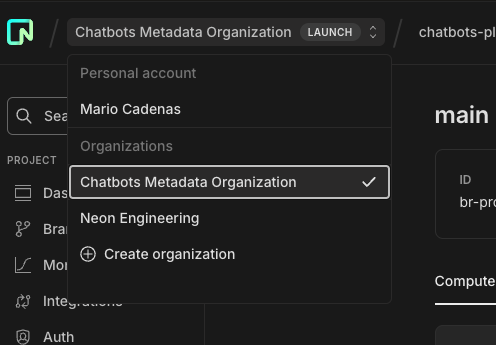
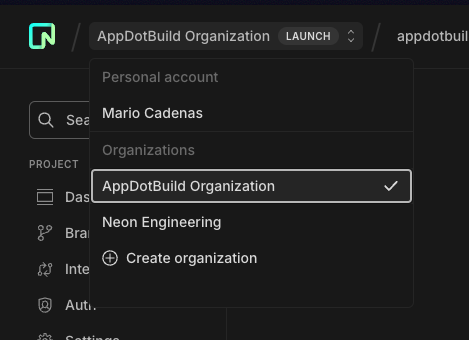
chore: fixup

diff --git a/README.md b/README.md
@@ -1,101 +1,7 @@
-# Requirements
+# AppDotBuild
 
-This project needs some dependencies in order to run, make sure to have them all installed.
+CLI with AI capabilities to create full-stack applications
 
-### npm
+## Contributing
 
-Make sure to have node installed using [nvm](https://github.com/nvm-sh/nvm)
-
-### pnpm
-
-Run the following command
-
-```bash
-npm install --global corepack@latest
-corepack enable pnpm
-```
-
-### bun
-
-If you are using homebrew, you can directly run
-
-```bash
-brew install oven-sh/bun/bun
-```
-
-if not, you can find the instructions for your case [here](https://bun.sh/docs/installation#macos-and-linux).
-
-### flyctl
-
-Run
-
-```bash
-brew install flyctl
-```
-
-or 
-
-```bash
-curl -L https://fly.io/install.sh | sh
-```
-
-Docs [here](https://fly.io/docs/flyctl/install/)
-
-## 1Password CLI
-
-Run
-
-```bash
-brew install 1password-cli
-```
-
-Docs [here](https://developer.1password.com/docs/cli/get-started)
-
-
-## Setting up the project
-
-First of all, go to [Neon console](https://console.neon.tech/app/projects/damp-surf-76179452/branches/br-proud-wave-a84j8pq6?branchId=br-proud-wave-a84j8pq6&database=neondb) into the Chatbots metadata Organization
-
-![Organization Picker](docs/images/organization-picker.png)
-
-If you don't have access, please ask a member of the team to invite you, and wait until you have access to continue this instructions.
-
-Now go into branches, and create a branch with the following structure `dev-<yourname>`
-
-![Branch creation](docs/images/branch-creation.png)
-
-Now go into your branch, and click on `Connect`, copy your connection string, and execute the following command
-
-```bash
-op item create --category "API Credential" --vault "App.build" --title "DATABASE_URL_$(echo "$USER" | tr '[:lower:]' '[:upper:]')" 'credential=<connection-string>' 'expires=2099-12-31'
-```
-
-Now you can run the following command to setup your environment
-
-```bash
-bun setup
-```
-
-## Starting the project
-
-Now you will need to run 2 different terminals, one with all the necessary servers, and the other one with the CLI.
-
-In the first terminal run 
-
-```bash
-bun dev
-```
-
-In the second terminal, you can choose to run the CLI in two ways:
-
-- Compiled version: This has a process in the background that is recompiling it everytime you make a change. But you will need to run the command again after doing changes.
-
-```bash
-bun cli
-```
-
-- Watched version: This allows you to directly see the changes you are applying (is not HMR for now).
-
-```bash
-bun cli:watch
-```
+[Contributing](./CONTRIBUTING.md)

diff --git a/CONTRIBUTING.md b/CONTRIBUTING.md
@@ -1,0 +1,100 @@
+# Requirements
+
+This project needs some dependencies in order to run, make sure to have them all installed.
+
+### npm
+
+Make sure to have node installed using [nvm](https://github.com/nvm-sh/nvm)
+
+### pnpm
+
+Run the following command
+
+```bash
+npm install --global corepack@latest
+corepack enable pnpm
+```
+
+### bun
+
+If you are using homebrew, you can directly run
+
+```bash
+brew install oven-sh/bun/bun
+```
+
+if not, you can find the instructions for your case [here](https://bun.sh/docs/installation#macos-and-linux).
+
+### flyctl
+
+Run
+
+```bash
+brew install flyctl
+```
+
+or
+
+```bash
+curl -L https://fly.io/install.sh | sh
+```
+
+Docs [here](https://fly.io/docs/flyctl/install/)
+
+## 1Password CLI
+
+Run
+
+```bash
+brew install 1password-cli
+```
+
+Docs [here](https://developer.1password.com/docs/cli/get-started)
+
+## Setting up the project
+
+First of all, go to [Neon console](https://console.neon.tech/app/projects/damp-surf-76179452/branches/br-proud-wave-a84j8pq6?branchId=br-proud-wave-a84j8pq6&database=neondb) into the AppDotBuild Organization
+
+![Organization Picker](docs/images/organization-picker.png)
+
+If you don't have access, please ask a member of the team to invite you, and wait until you have access to continue this instructions.
+
+Now go into branches, and create a branch with the following structure `dev-<yourname>`
+
+![Branch creation](docs/images/branch-creation.png)
+
+Now go into your branch, and click on `Connect`, copy your connection string, and execute the following command
+
+```bash
+op item create --category "API Credential" --vault "App.build" --title "DATABASE_URL_$(echo "$USER" | tr '[:lower:]' '[:upper:]')" 'credential=<connection-string>' 'expires=2099-12-31'
+```
+
+Now you can run the following command to setup your environment
+
+```bash
+bun setup
+```
+
+## Starting the project
+
+Now you will need to run 2 different terminals, one with all the necessary servers, and the other one with the CLI.
+
+In the first terminal run
+
+```bash
+bun dev
+```
+
+In the second terminal, you can choose to run the CLI in two ways:
+
+- Compiled version: This has a process in the background that is recompiling it everytime you make a change. But you will need to run the command again after doing changes.
+
+```bash
+bun cli
+```
+
+- Watched version: This allows you to directly see the changes you are applying (is not HMR for now).
+
+```bash
+bun cli:watch
+```
